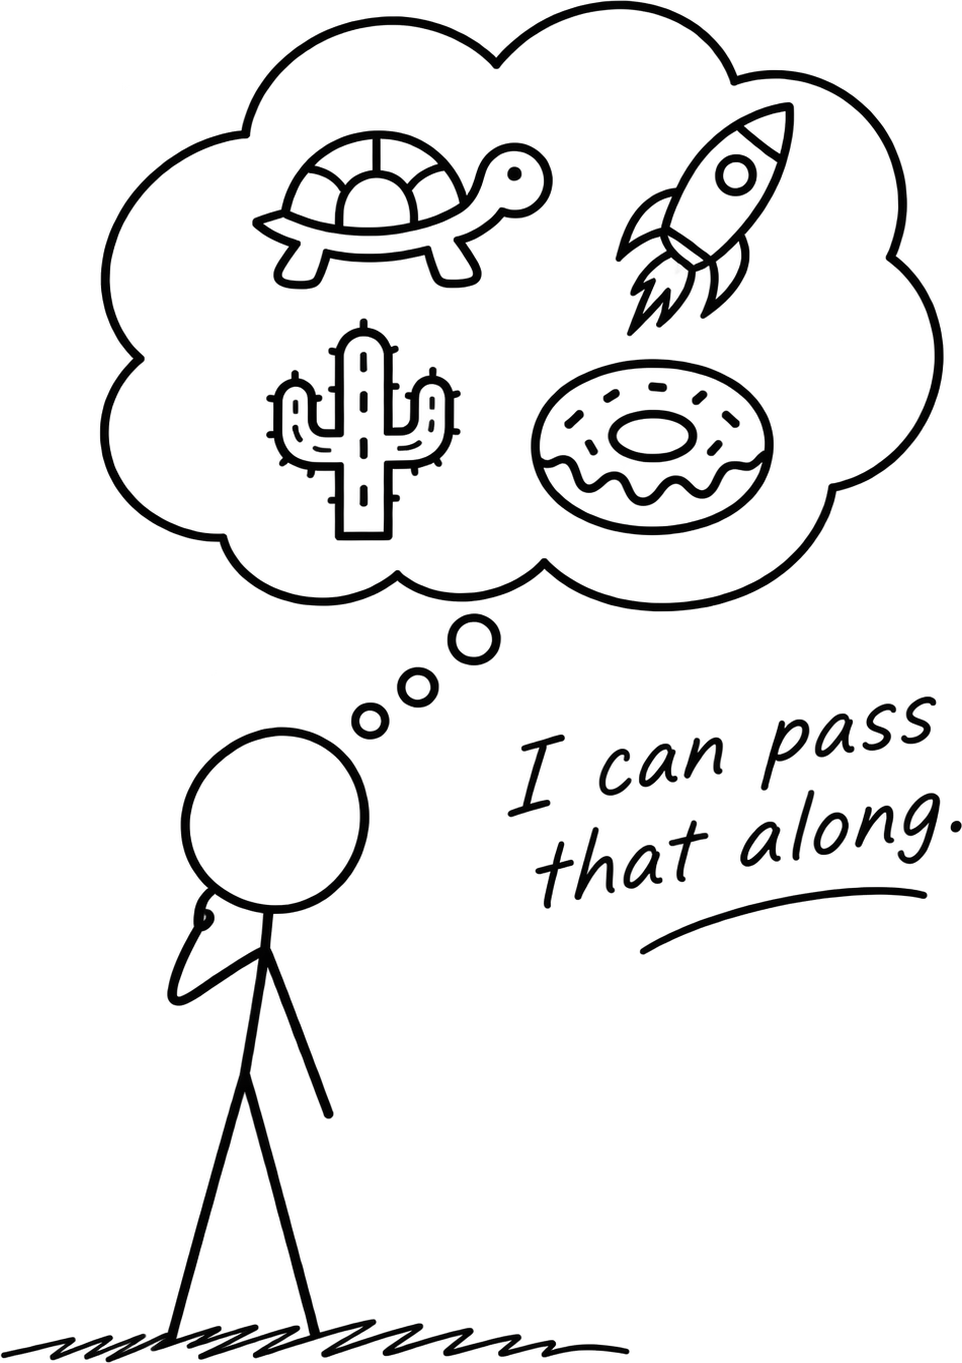
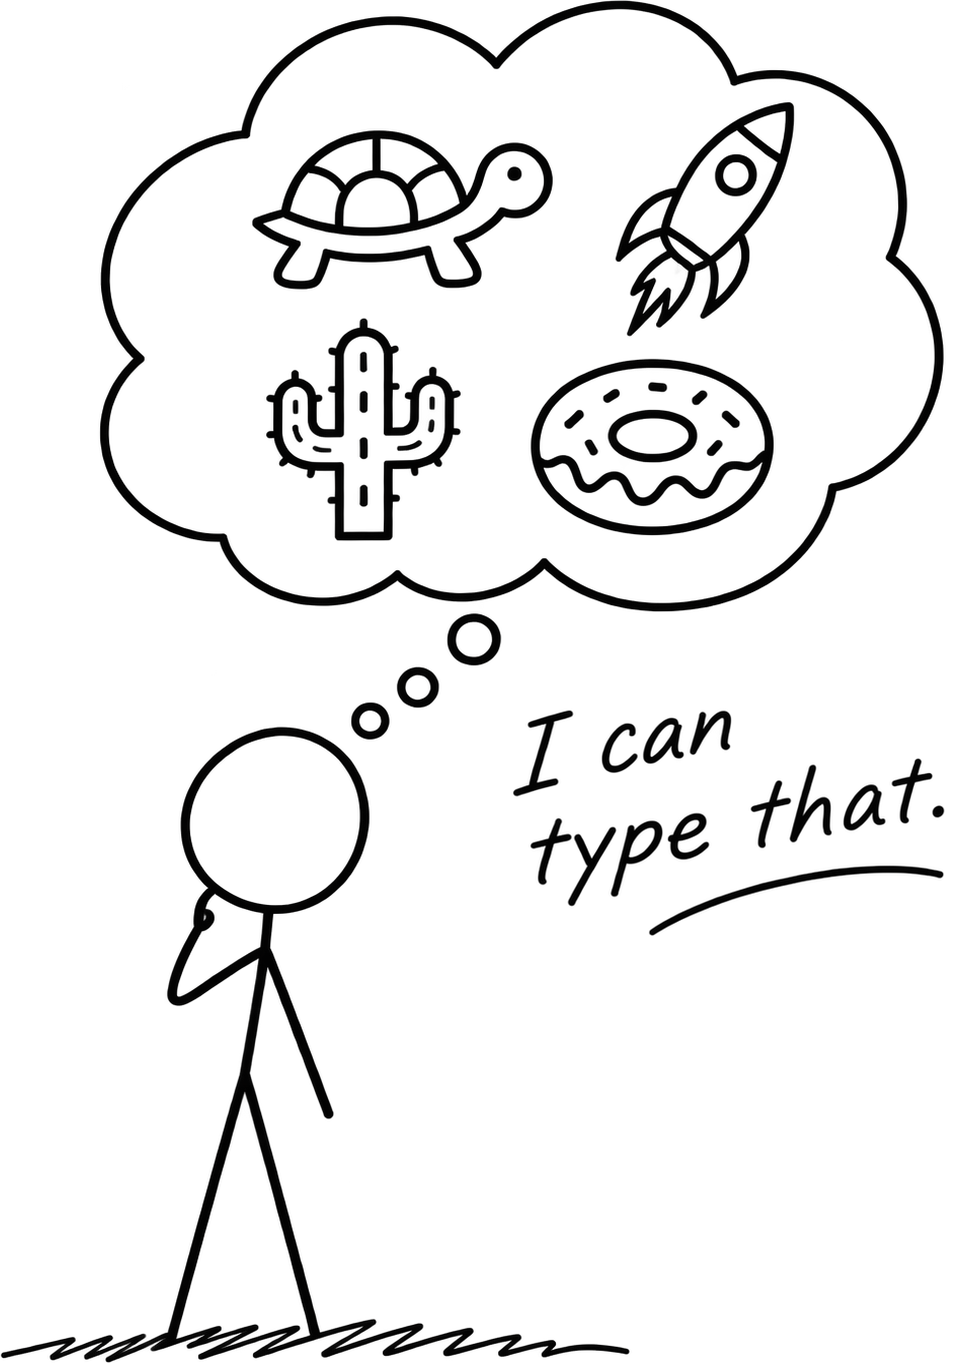
Update the hero illustration caption to I can type that

Changed region(s): [[0.5301, 0.493, 1.0, 0.7087]]

diff --git a/src/App.tsx b/src/App.tsx
@@ -207,7 +207,7 @@ export default function App() {
             src="/assets/passphrase-thought.webp"
             width="962"
             height="1363"
-            alt="A thinking stick figure pictures a turtle, rocket, cactus, and donut: ‘I can pass that along.’"
+            alt="A thinking stick figure pictures a turtle, rocket, cactus, and donut: ‘I can type that.’"
             fetchPriority="high"
           />
         </section>

diff --git a/design-qa.md b/design-qa.md
@@ -4,6 +4,14 @@ final result: passed
 
 The approved two-column continuation is implemented with a shared, standard type scale: 36px section headings, 18px reading/UI/code text, and 48px numerical results. These sizes apply at mobile and desktop widths. All explanatory detail, exact calculations, security assumptions, interactive counts, and the math disclosure are retained.
 
+## Hero caption revision
+
+Changed the illustration caption to “I can type that.” and updated its alt text. The built-in imagegen tool generated the replacement lettering; only its caption region was integrated into the existing transparent artwork. Saved asset: `public/assets/passphrase-thought.webp`, lossless WebP, 962 × 1363, 149,520 bytes. A decoded-pixel comparison against the prior committed asset found zero visible changes outside x=500–961, y=680–979. The original turtle, rocket, cactus, donut, thought cloud, figure, ground, alpha, and layout dimensions are retained.
+
+Generated source: `/Users/tim.vanreenen/.codex/generated_images/01a1ba14-77ce-75a0-abc9-5a6d464ab3a6/exec-bd70ec22-7c87-4175-99c7-4e46631001a0.png`. Tool prompt: “Use case: text-localization. Edit target: the provided existing black-ink comic illustration. Change ONLY the handwritten caption from 'I can pass that along.' to the exact text 'I can type that.' Use two handwritten lines: 'I can' above 'type that.' in the same informal slanted handwritten lettering, same position to the right of the thinking stick figure's head, with the existing simple underline. Preserve all other artwork exactly: the turtle, rocket, cactus, donut, their thought cloud, the three thought dots, the stick figure touching its face, ground scribble, original stroke shapes and weights, original framing and relative positions. Do not redraw or stylize the icons or character. Keep the same 962 by 1363 portrait canvas and composition. The reference is shown on white only to make the black strokes visible. Deliver BLACK ink strokes on a genuinely TRANSPARENT background, including inside the thought bubble and enclosed shapes. No white paper/matte, no additional marks or text. Text verbatim: 'I can type that.'”
+
+Evidence: `/private/tmp/xkcdpass-caption/desktop.jpg` (1440 × 1000) and `mobile.jpg` (390 × 844), density 1, in-app Browser; both inspected. No caption clipping, matte rectangle, missing artwork, or console warnings/errors. Viewport override reset and preview left open. `npm run check` passed all 54 Node tests and static/lint/type/build checks. Targeted render/responsive/keyboard/axe tests passed in Chromium and WebKit (4 checks), covering 320–1920px. No actionable P0/P1/P2 findings remain.
+
 ## Installation and footer revision
 
 The latest user-approved structure is hero → entropy → usage → installation → footer. The installation strip and divider below the hero are removed. A dedicated installation section after usage reuses the existing section grid, 36px heading, 18px reading/code, copy command, and 96/128px spacing. Platform links are grouped beneath the command, and no longer appear in usage. Header and hero install anchors point to the complete section.
